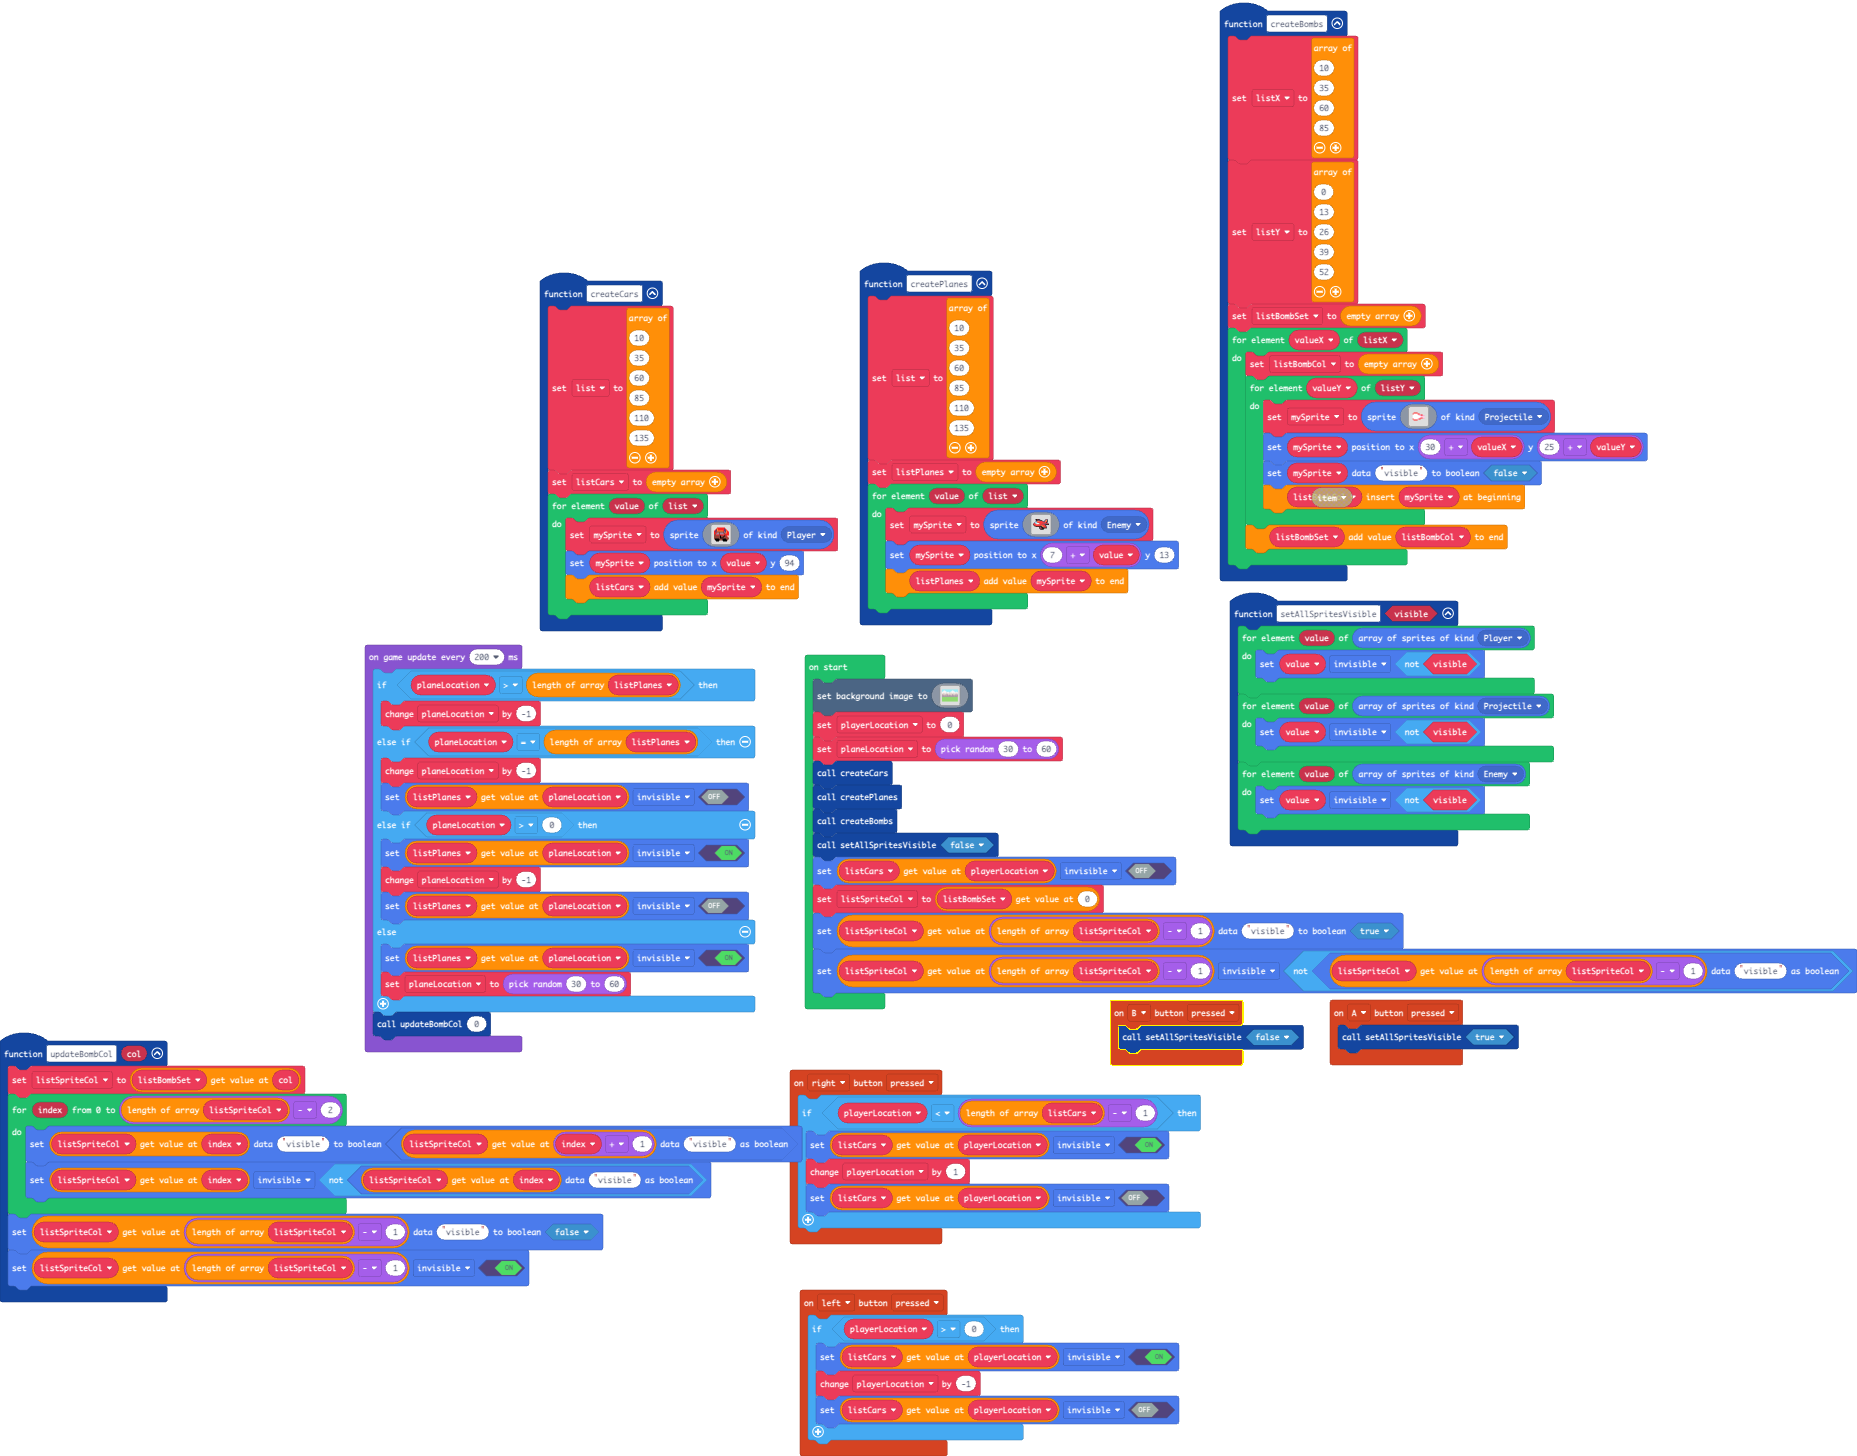
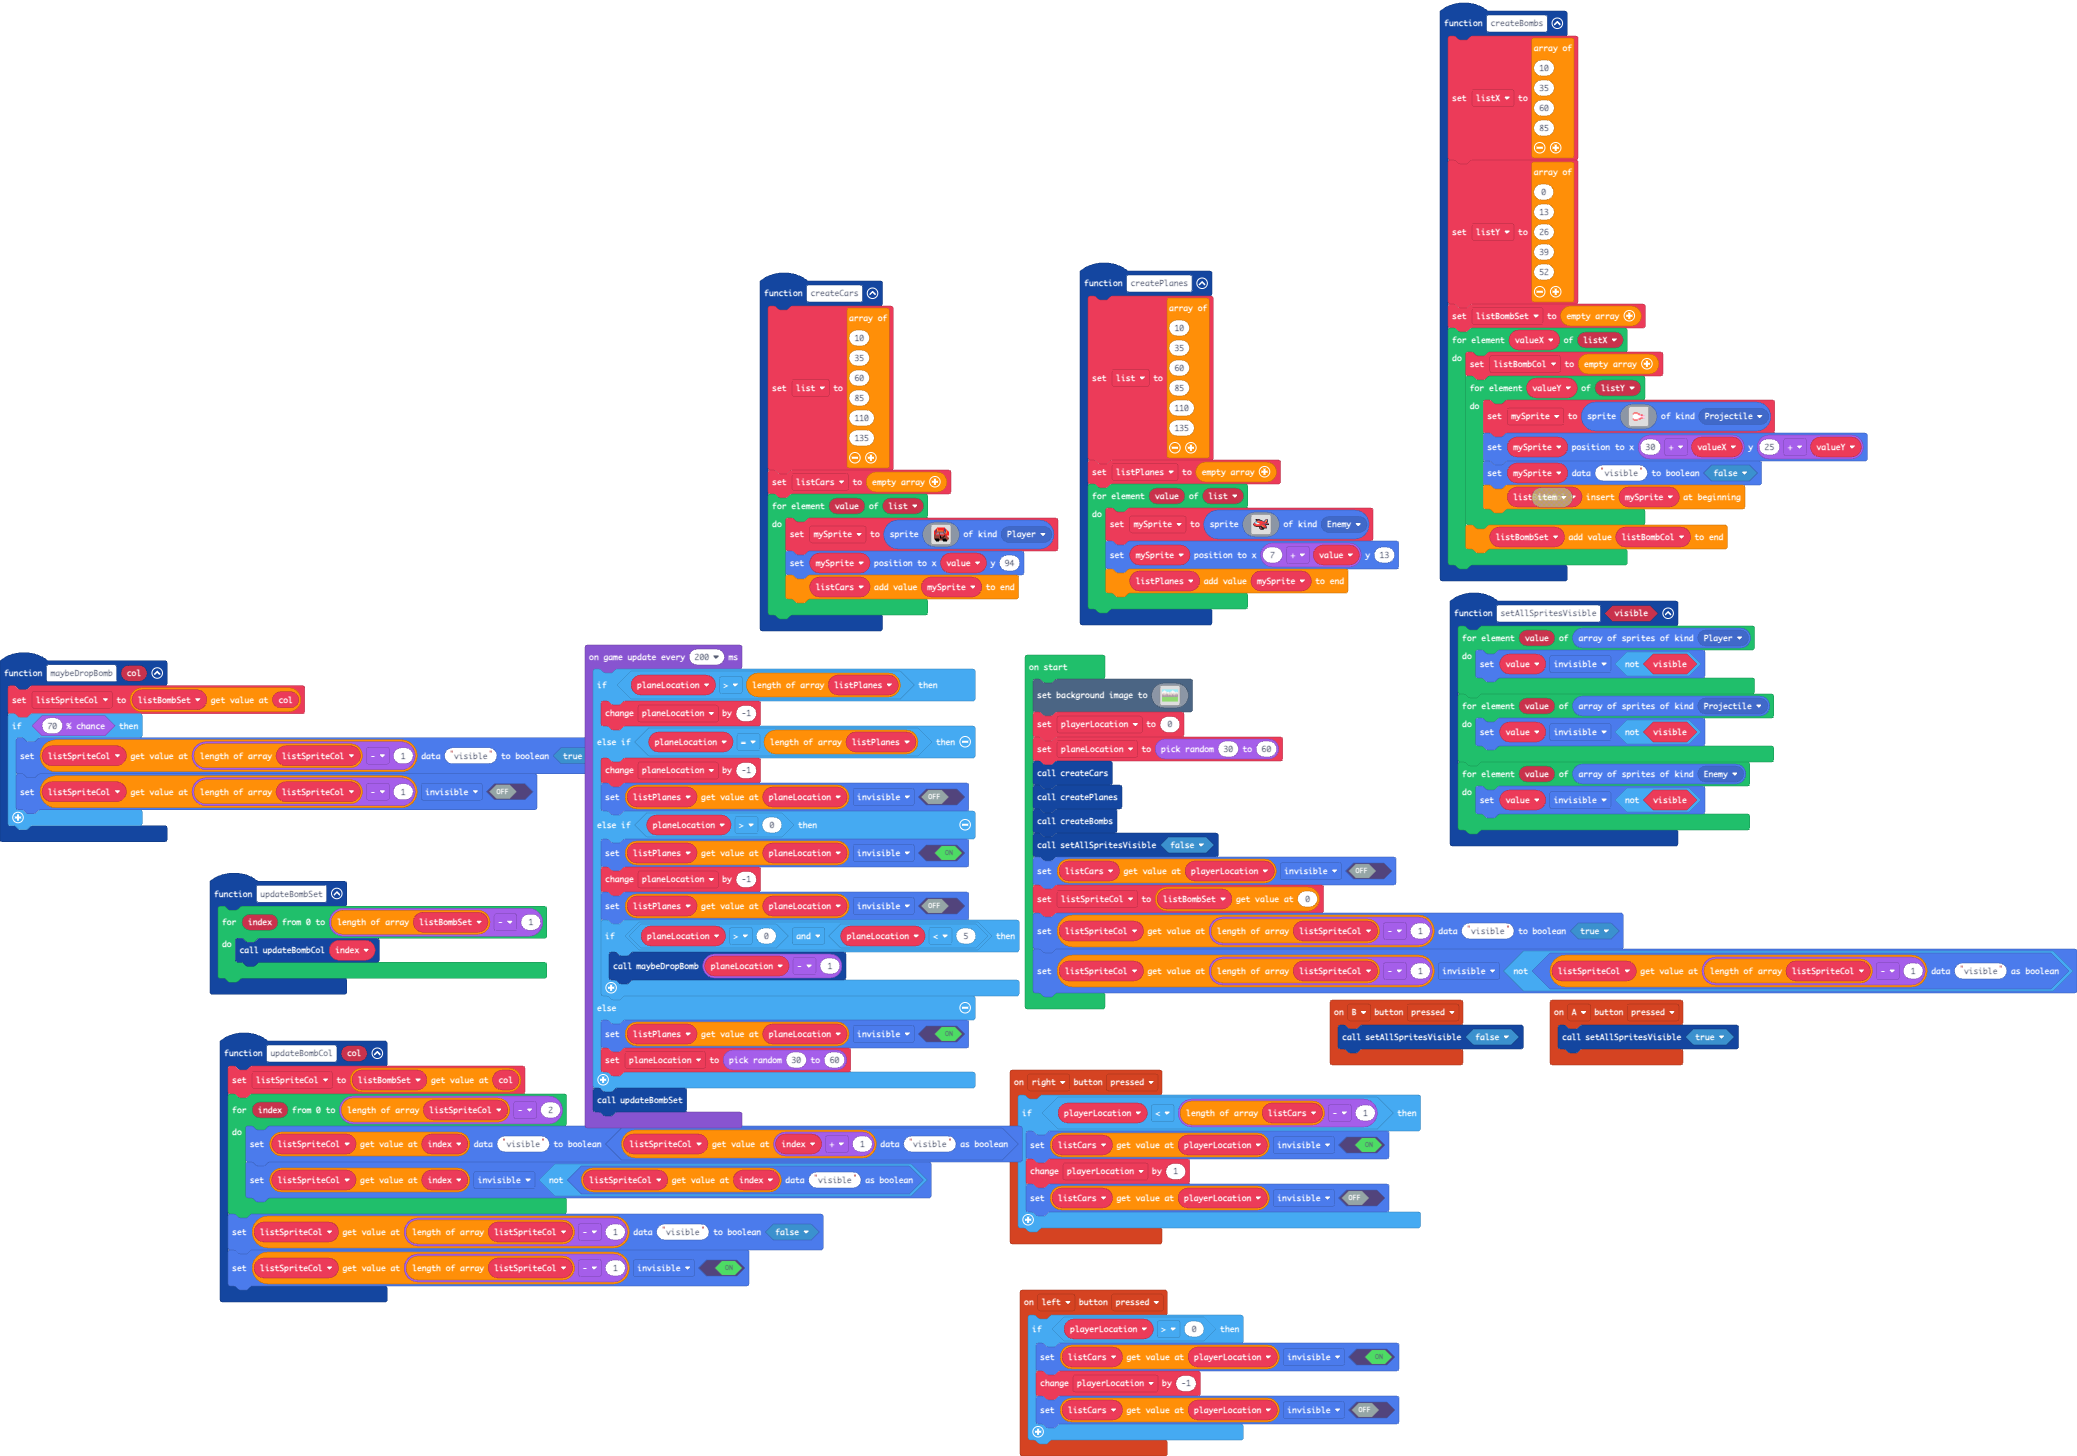
with maybeDropBomb now

diff --git a/main.ts b/main.ts
@@ -1,3 +1,8 @@
+function updateBombSet () {
+    for (let index = 0; index <= listBombSet.length - 1; index++) {
+        updateBombCol(index)
+    }
+}
 controller.B.onEvent(ControllerButtonEvent.Pressed, function () {
     setAllSpritesVisible(false)
 })
@@ -145,6 +150,13 @@ function setAllSpritesVisible (visible: boolean) {
     }
     for (let value of sprites.allOfKind(SpriteKind.Enemy)) {
         value.setFlag(SpriteFlag.Invisible, !(visible))
+    }
+}
+function maybeDropBomb (col: number) {
+    listSpriteCol = listBombSet[col]
+    if (Math.percentChance(70)) {
+        sprites.setDataBoolean(listSpriteCol[listSpriteCol.length - 1], "visible", true)
+        listSpriteCol[listSpriteCol.length - 1].setFlag(SpriteFlag.Invisible, false)
     }
 }
 let listBombCol: Sprite[] = []
@@ -299,9 +311,12 @@ game.onUpdateInterval(200, function () {
         listPlanes[planeLocation].setFlag(SpriteFlag.Invisible, true)
         planeLocation += -1
         listPlanes[planeLocation].setFlag(SpriteFlag.Invisible, false)
+        if (planeLocation > 0 && planeLocation < 5) {
+            maybeDropBomb(planeLocation - 1)
+        }
     } else {
         listPlanes[planeLocation].setFlag(SpriteFlag.Invisible, true)
         planeLocation = randint(30, 60)
     }
-    updateBombCol(0)
+    updateBombSet()
 })
